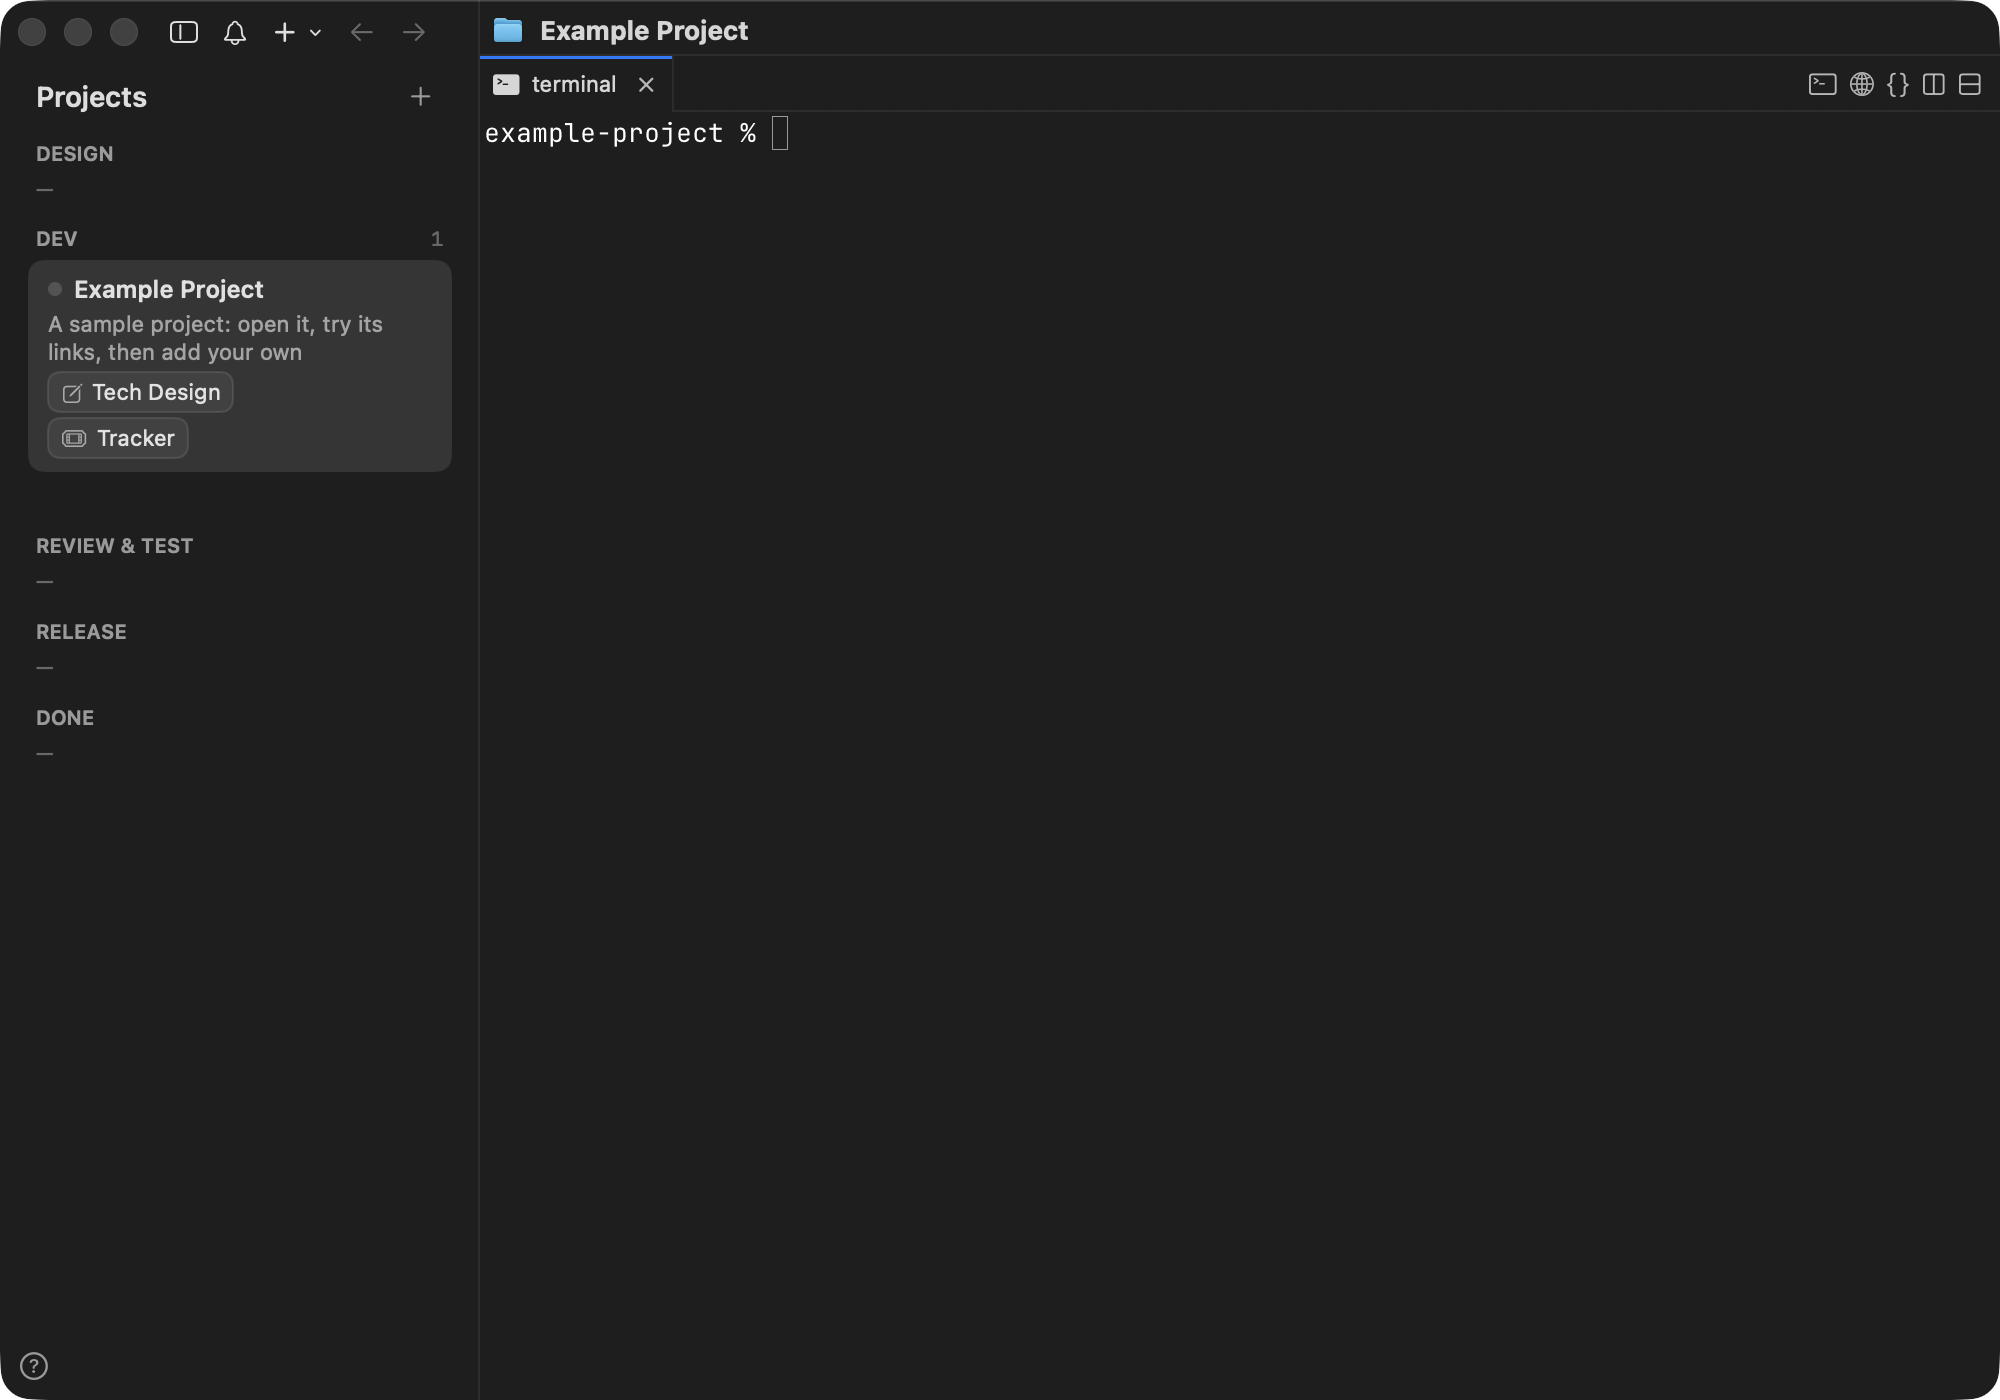
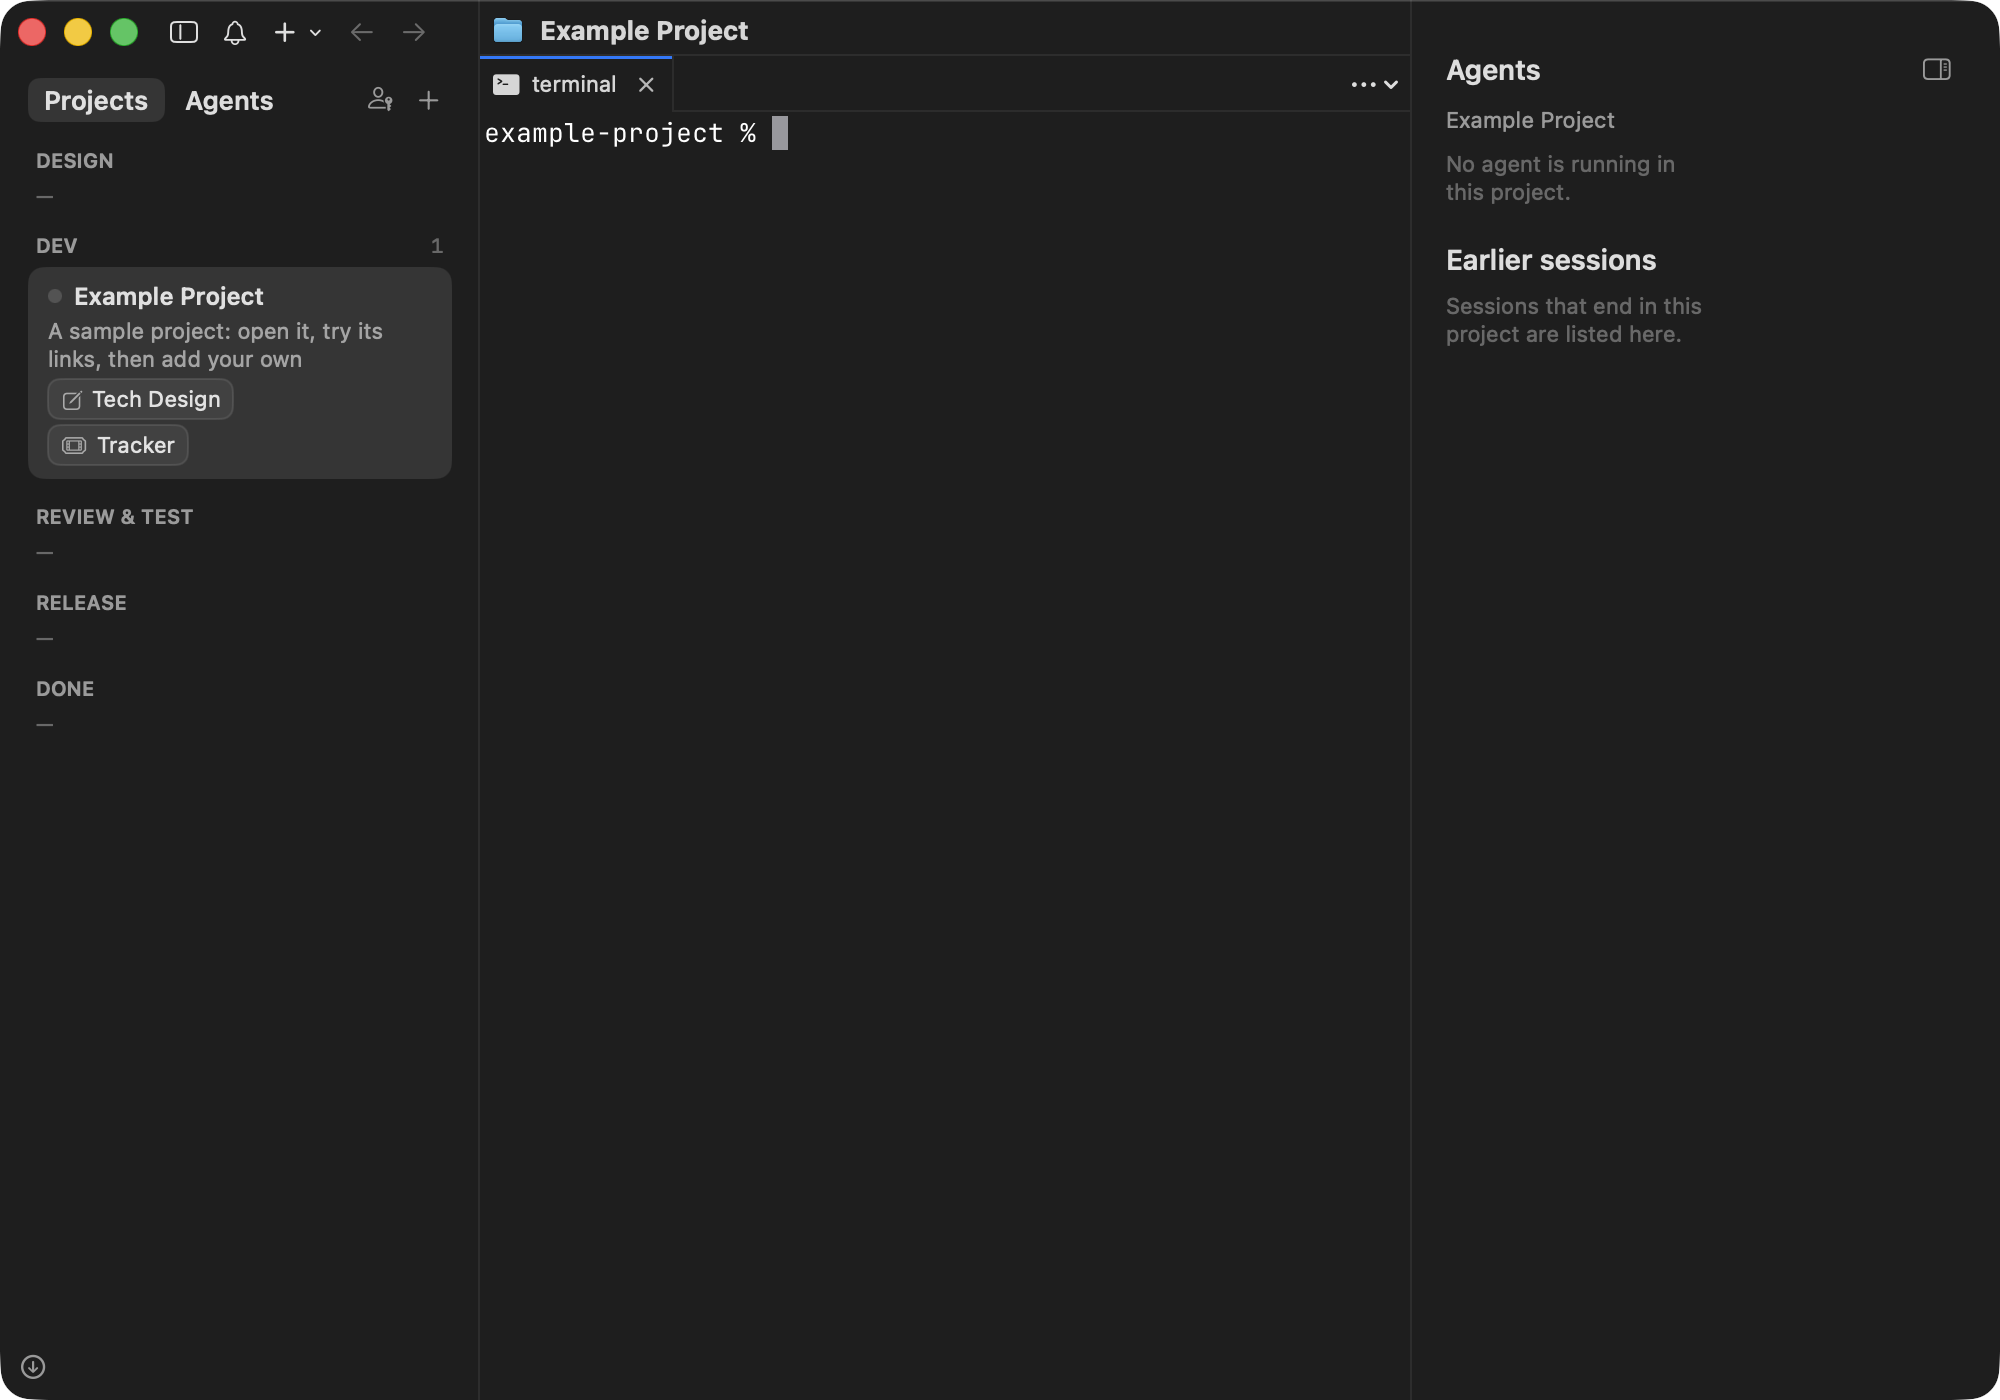
docs(wheelhouse): retake the first-launch, New Project and project screenshots
They showed the board before the Projects | Agents switch, the Agents
panel and the update button at the foot of the sidebar.

diff --git a/README.md b/README.md
@@ -89,7 +89,7 @@ Open the app. The first launch sets up the board by itself: the lanes, the board
 sidebar, and an **Example Project** to look around in.
 
 <p align="center">
-  <img src="wheelhouse/docs/images/first-launch.png" width="720" alt="Wheelhouse IDE after the first launch: the board with its five lanes and the Example Project card, next to the project's terminal">
+  <img src="wheelhouse/docs/images/first-launch.png" width="720" alt="Wheelhouse IDE after the first launch: the board with its five lanes and the Example Project card, the project's terminal, and the Agents panel on the right">
 </p>
 
 1. **Look around.** Click the Example Project card to jump into its workspace. The chips on the
@@ -106,7 +106,7 @@ sidebar, and an **Example Project** to look around in.
    ⇧⌘F searches inside the files.
 
    <p align="center">
-     <img src="wheelhouse/docs/images/project-open.png" width="720" alt="The new project on the board in the Design lane, with its folder open as a tab next to its terminal">
+     <img src="wheelhouse/docs/images/project-open.png" width="720" alt="The new project on the board in the Design lane, with its folder open as a tab next to its terminal and the Agents panel on the right">
    </p>
 
 4. **Stay signed in.** Link tabs have their own cookies. Click the key button at the top of the
